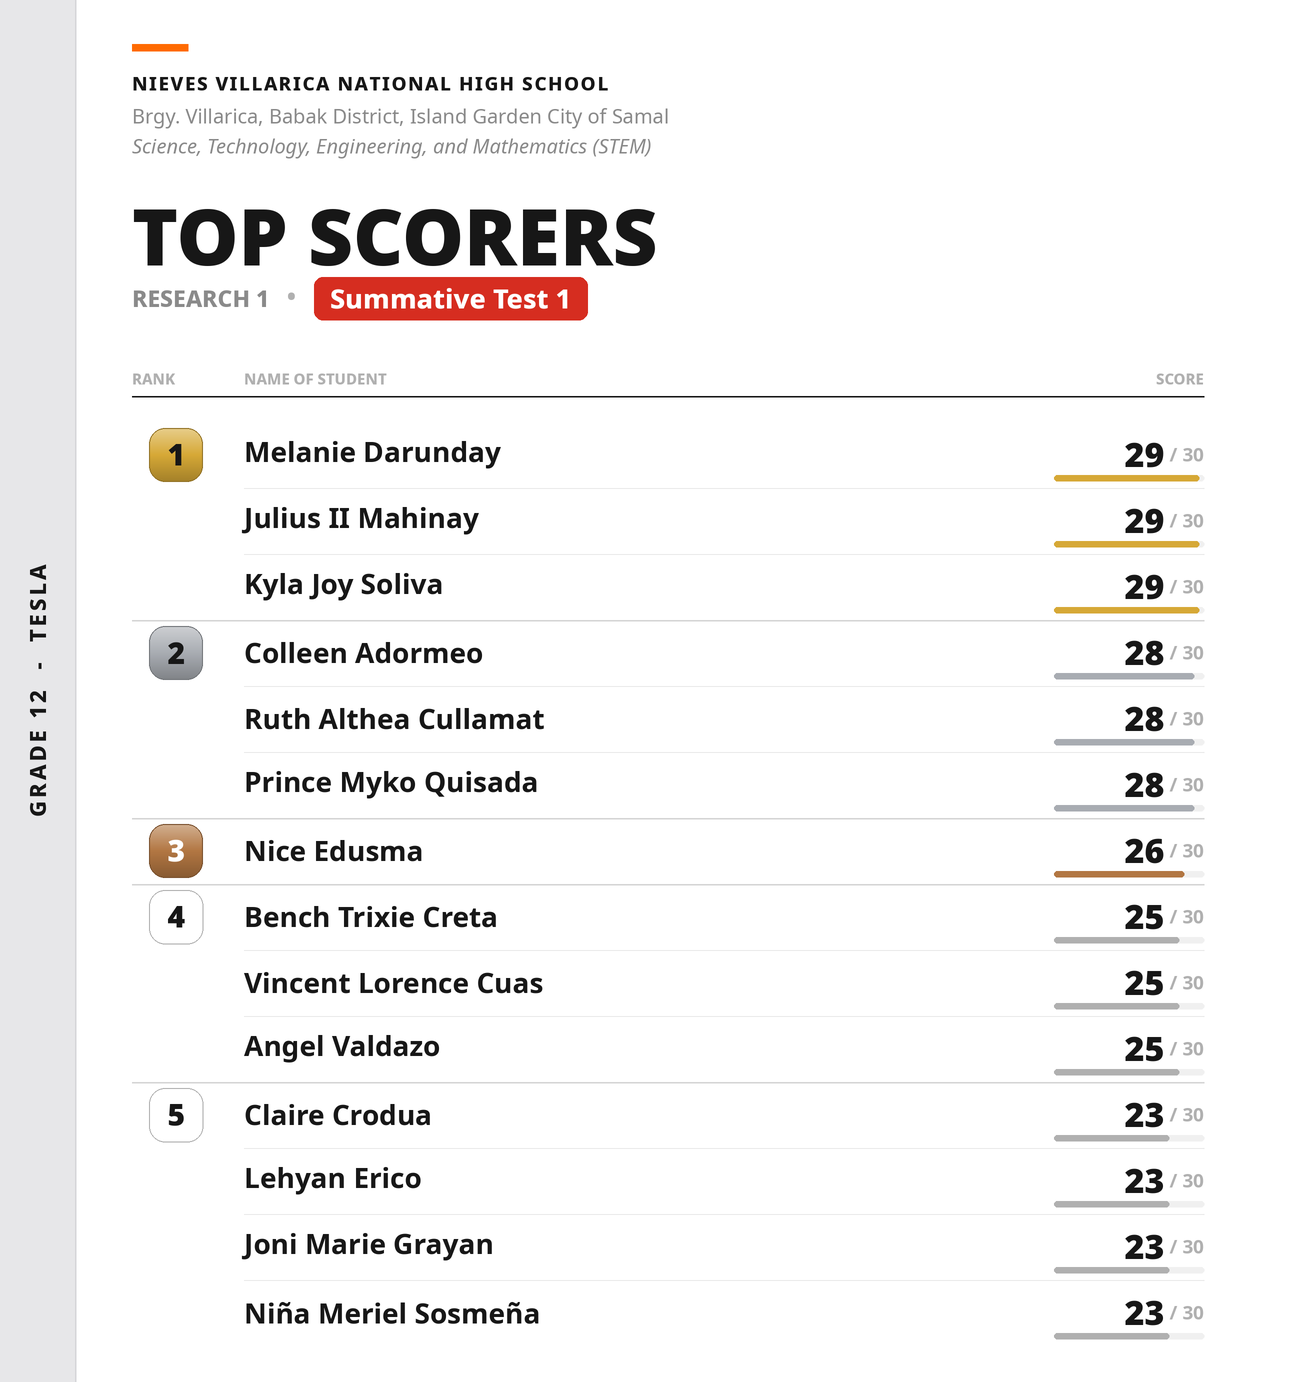
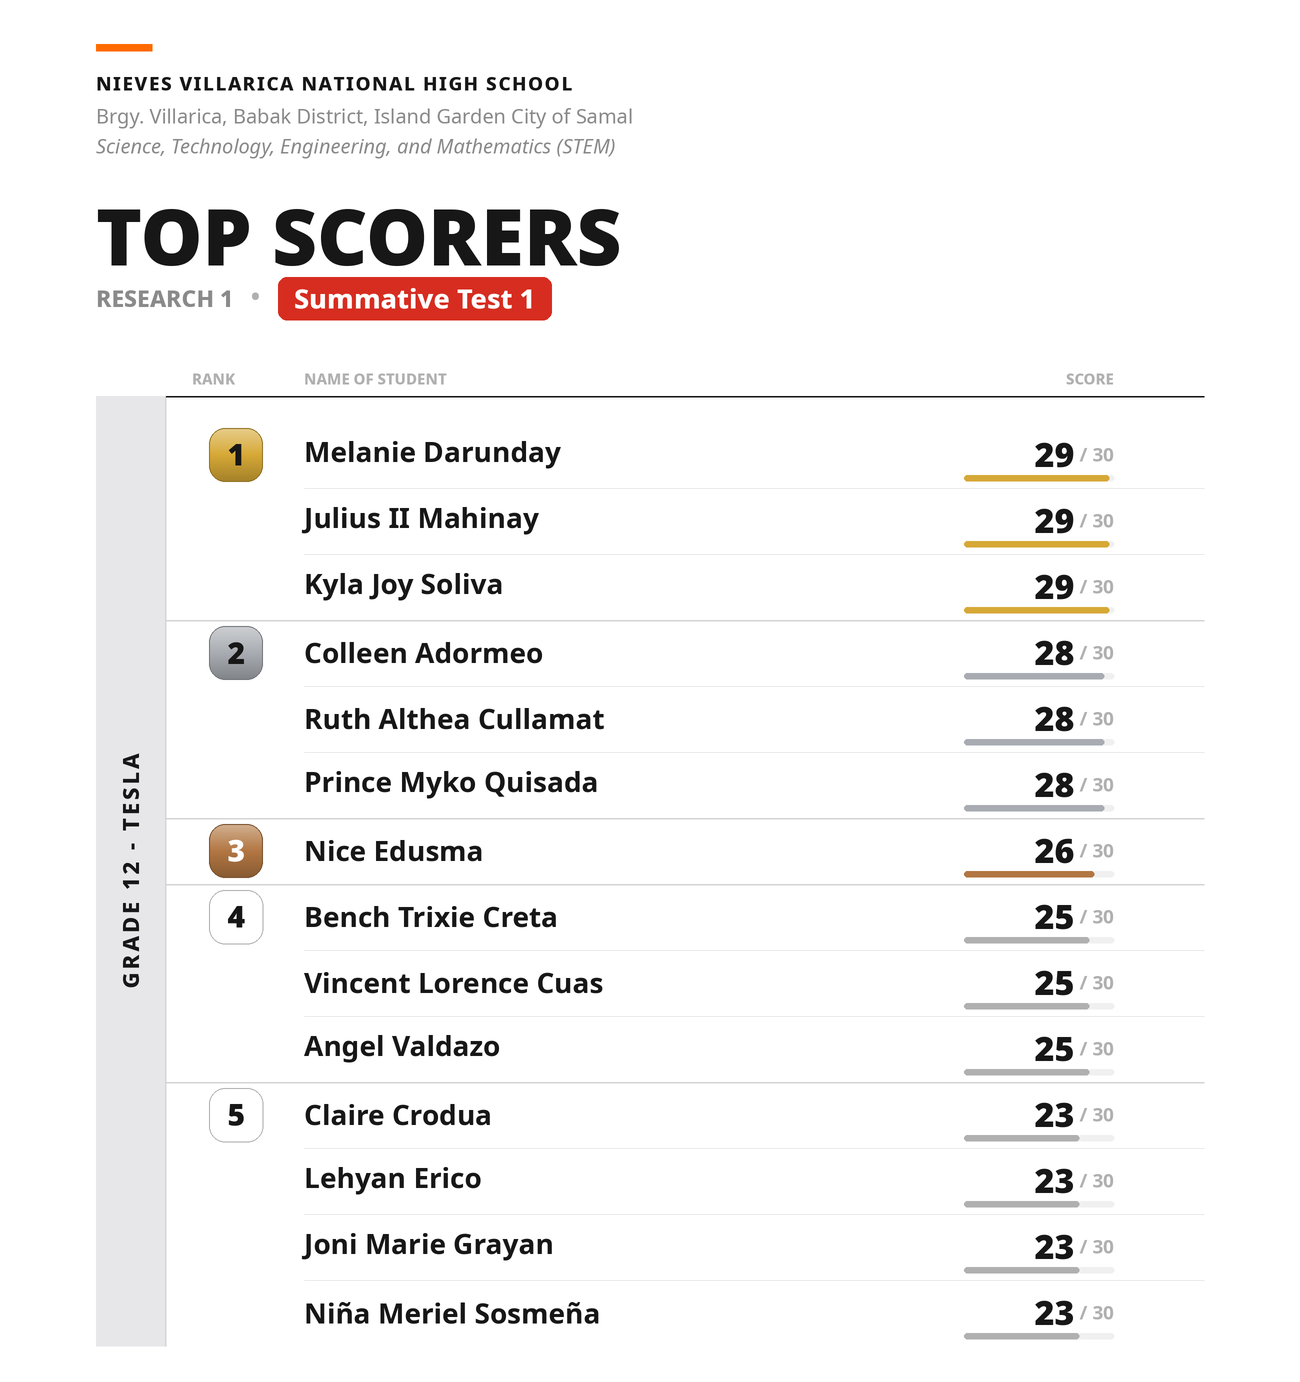
Replace full-page slug with table-only gray section column; tighten name/score gap

diff --git a/make_topscorers_research1.py b/make_topscorers_research1.py
@@ -57,7 +57,7 @@ GROUPS = [
          ("Ni\u00f1a Meriel Sosme\u00f1a", 23)]),
 ]
 MAX_SCORE = 30
-SECTION_LINE = "GRADE 12  -  TESLA"
+SECTION_LINE = "GRADE 12 - TESLA"
 
 MEDAL = {1: GOLD, 2: SILVER, 3: BRONZE}
 def tier(rank):
@@ -82,8 +82,7 @@ f_scoremx = F("NotoSans-Bold.ttf",      s(19))
 
 # ---------------------------------------------------------------- geometry
 W       = 1300
-SLUG_W  = 76      # gray vertical slug sidebar (holds "GRADE 12 - TESLA")
-LM      = SLUG_W + 56   # left margin of content, shifted inward past the slug
+LM      = 96      # page/header left margin (school name, title, subtitle)
 RM      = 96
 CW      = W - LM - RM
 
@@ -91,7 +90,11 @@ row_h      = 66
 head_h     = 396
 foot_h     = 36
 
-SLUG_GRAY = (231, 231, 233)   # gray box fill for the section slug
+GRAY_COL_W    = 70      # width of the "Grade 12 - Tesla" section column (table only)
+GRAY_COL_GAP  = 26      # gap between the gray column and the rank badge column
+SCORE_INSET   = 90      # pulls the score column in from the right margin a bit,
+                         # tightening the Name<->Score gap
+SLUG_GRAY     = (231, 231, 233)   # gray box fill for the section column
 
 n_rows = sum(len(g[1]) for g in GROUPS)
 list_h = n_rows * row_h
@@ -100,10 +103,11 @@ H = head_h + 26 + list_h + foot_h
 img  = Image.new("RGB", (s(W), s(H)), WHITE)
 d    = ImageDraw.Draw(img)
 
-def draw_vertical_slug(section_text):
-    """Full-height gray sidebar on the left with centered, rotated section text."""
-    d.rectangle([0, 0, s(SLUG_W), s(H)], fill=SLUG_GRAY)
-    d.rectangle([s(SLUG_W) - max(1, SS), 0, s(SLUG_W), s(H)], fill=(214, 214, 217))
+def draw_section_column(x0, y0, x1, y1, section_text):
+    """Gray table column (bounded to the table area) with centered, rotated
+    vertical section text, e.g. 'GRADE 12 - TESLA'."""
+    d.rectangle([s(x0), s(y0), s(x1), s(y1)], fill=SLUG_GRAY)
+    d.rectangle([s(x1) - max(1, SS), s(y0), s(x1), s(y1)], fill=(214, 214, 217))
 
     tracking = s(3)
     tb_all = d.textbbox((0, 0), section_text, font=f_slug)
@@ -120,9 +124,9 @@ def draw_vertical_slug(section_text):
 
     rotated = temp.rotate(90, expand=True)
     rw, rh = rotated.size
-    px = s(SLUG_W) // 2 - rw // 2
-    py = s(H) // 2 - rh // 2
-    img.paste(rotated, (px, py), rotated)
+    cx = s((x0 + x1) / 2.0)
+    cy = s((y0 + y1) / 2.0)
+    img.paste(rotated, (int(cx - rw / 2), int(cy - rh / 2)), rotated)
 
 def text_tracked(draw, xy, txt, font, fill, tracking=0):
     x, y = xy
@@ -162,9 +166,6 @@ def outline_badge(bx0, by0, size):
           r=s(16), fill=WHITE, outline=GRAY_SOFT, width=max(2, SS))
 
 # ---------------------------------------------------------------- header
-# draw the full-height gray slug sidebar first (behind everything else)
-draw_vertical_slug(SECTION_LINE)
-
 x = s(LM)
 
 # thin top accent tab (orange) — asymmetric, editorial
@@ -211,20 +212,30 @@ d.text((box_l + pad_x - tb[0], line_mid - (tb[1] + tb[3]) / 2.0),
 def wbase(txt, font):
     return d.textlength(txt, font=font) / SS
 
-rank_cx   = LM + 44                      # center of rank badge
-name_x    = LM + 112                     # start of student name column
-score_rx  = W - RM                       # right edge for score
-bar_w     = 150                          # score accent bar width
+n_rows = sum(len(g[1]) for g in GROUPS)
+table_top    = head_h
+table_bottom = head_h + 26 + n_rows * row_h
+
+gray_x0 = LM
+gray_x1 = LM + GRAY_COL_W
+rank_col_x = gray_x1 + GRAY_COL_GAP        # rank badges shift right, past the gray column
+rank_cx   = rank_col_x + 44                # center of rank badge
+name_x    = rank_col_x + 112               # start of student name column
+bar_w     = 150                            # score accent bar width
+score_rx  = (W - RM) - SCORE_INSET         # right edge for score, pulled in a bit
+
+# gray "Grade 12 - Tesla" column, spanning the header row through the last table row
+draw_section_column(gray_x0, table_top, gray_x1, table_bottom, SECTION_LINE)
 
 # column headers (3 columns now: RANK, NAME OF STUDENT, SCORE)
 chy = head_h - 28
-d.text((s(LM), s(chy)), "RANK", font=f_colhdr, fill=GRAY_SOFT)
+d.text((s(rank_col_x), s(chy)), "RANK", font=f_colhdr, fill=GRAY_SOFT)
 d.text((s(name_x), s(chy)), "NAME OF STUDENT", font=f_colhdr, fill=GRAY_SOFT)
 sc_hdr = "SCORE"
 w_sc = d.textlength(sc_hdr, font=f_colhdr)
 d.text((s(score_rx) - w_sc, s(chy)), sc_hdr, font=f_colhdr, fill=GRAY_SOFT)
-# header rule
-d.rectangle([s(LM), s(head_h), s(W - RM), s(head_h) + max(1, SS)], fill=INK)
+# header rule (spans from the gray column's right edge to the page's right margin)
+d.rectangle([s(gray_x1), s(head_h), s(W - RM), s(head_h) + max(1, SS)], fill=INK)
 
 # ---------------------------------------------------------------- rows
 y = head_h + 26
@@ -237,7 +248,7 @@ for gi, (rank, students) in enumerate(GROUPS):
 
     # rank badge, aligned to the FIRST student's row of this rank
     first_cy = grp_top + row_h / 2.0
-    bx0 = LM + 44 - BADGE / 2.0
+    bx0 = rank_cx - BADGE / 2.0
     by0 = first_cy - BADGE / 2.0
     if rank in MEDAL:
         medal_badge(int(round(bx0)), int(round(by0)), BADGE, MEDAL[rank])
@@ -248,7 +259,7 @@ for gi, (rank, students) in enumerate(GROUPS):
     # rank number centered on the first student's row
     num = str(rank)
     nb = d.textbbox((0, 0), num, font=f_badge)
-    d.text((s(LM + 44) - (nb[0] + nb[2]) / 2.0,
+    d.text((s(rank_cx) - (nb[0] + nb[2]) / 2.0,
             s(first_cy) - (nb[1] + nb[3]) / 2.0),
            num, font=f_badge, fill=num_fill)
 
@@ -261,7 +272,7 @@ for gi, (rank, students) in enumerate(GROUPS):
         # thin partial line (from name column) between students tied at one rank
         if si == 0:
             if gi > 0:
-                d.rectangle([s(LM), s(ry), s(W - RM), s(ry) + max(1, SS)], fill=GRP_LINE)
+                d.rectangle([s(gray_x1), s(ry), s(W - RM), s(ry) + max(1, SS)], fill=GRP_LINE)
         else:
             d.rectangle([s(name_x), s(ry), s(W - RM), s(ry) + max(1, SS - 1)], fill=LINE)
 
